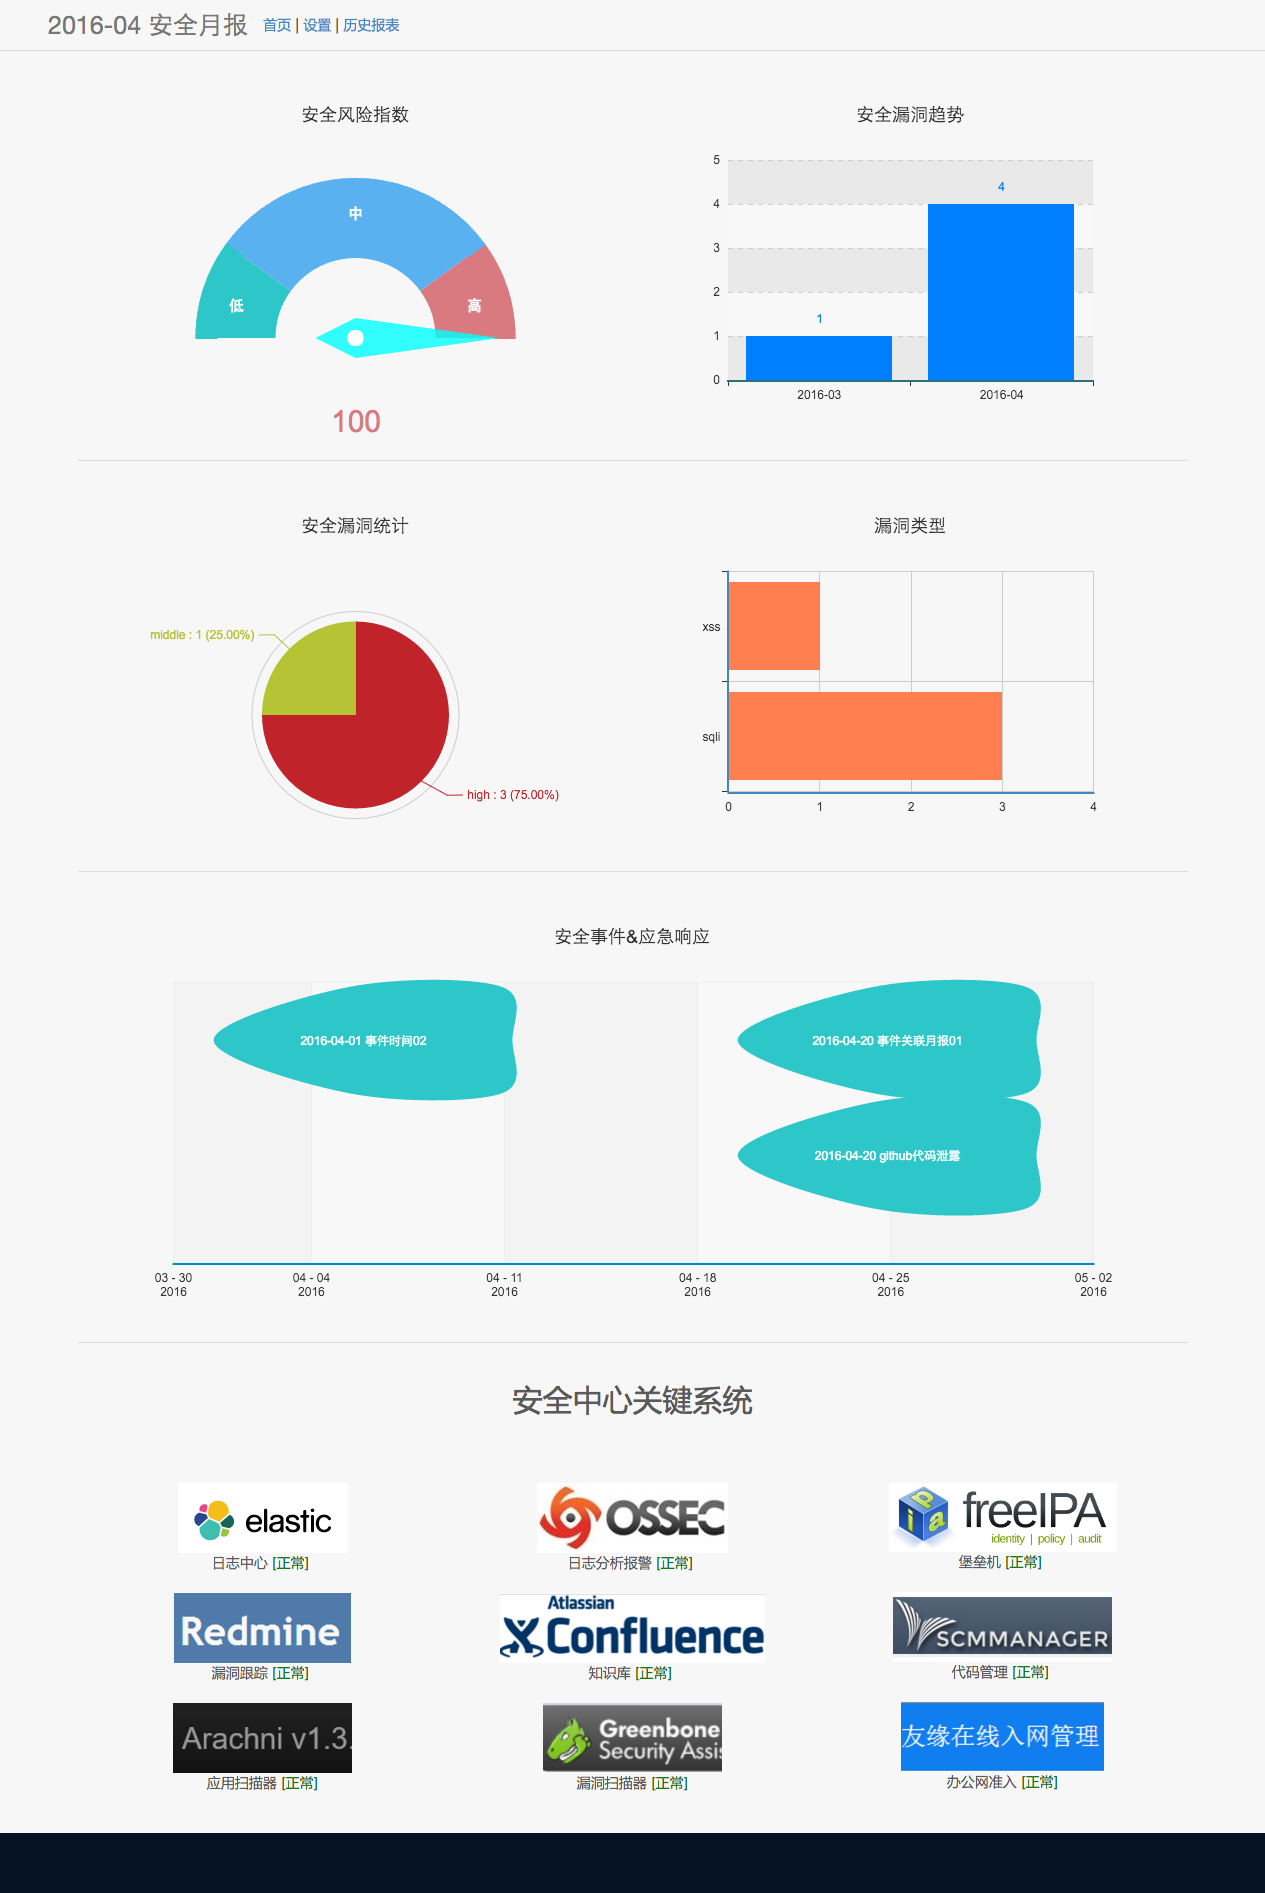
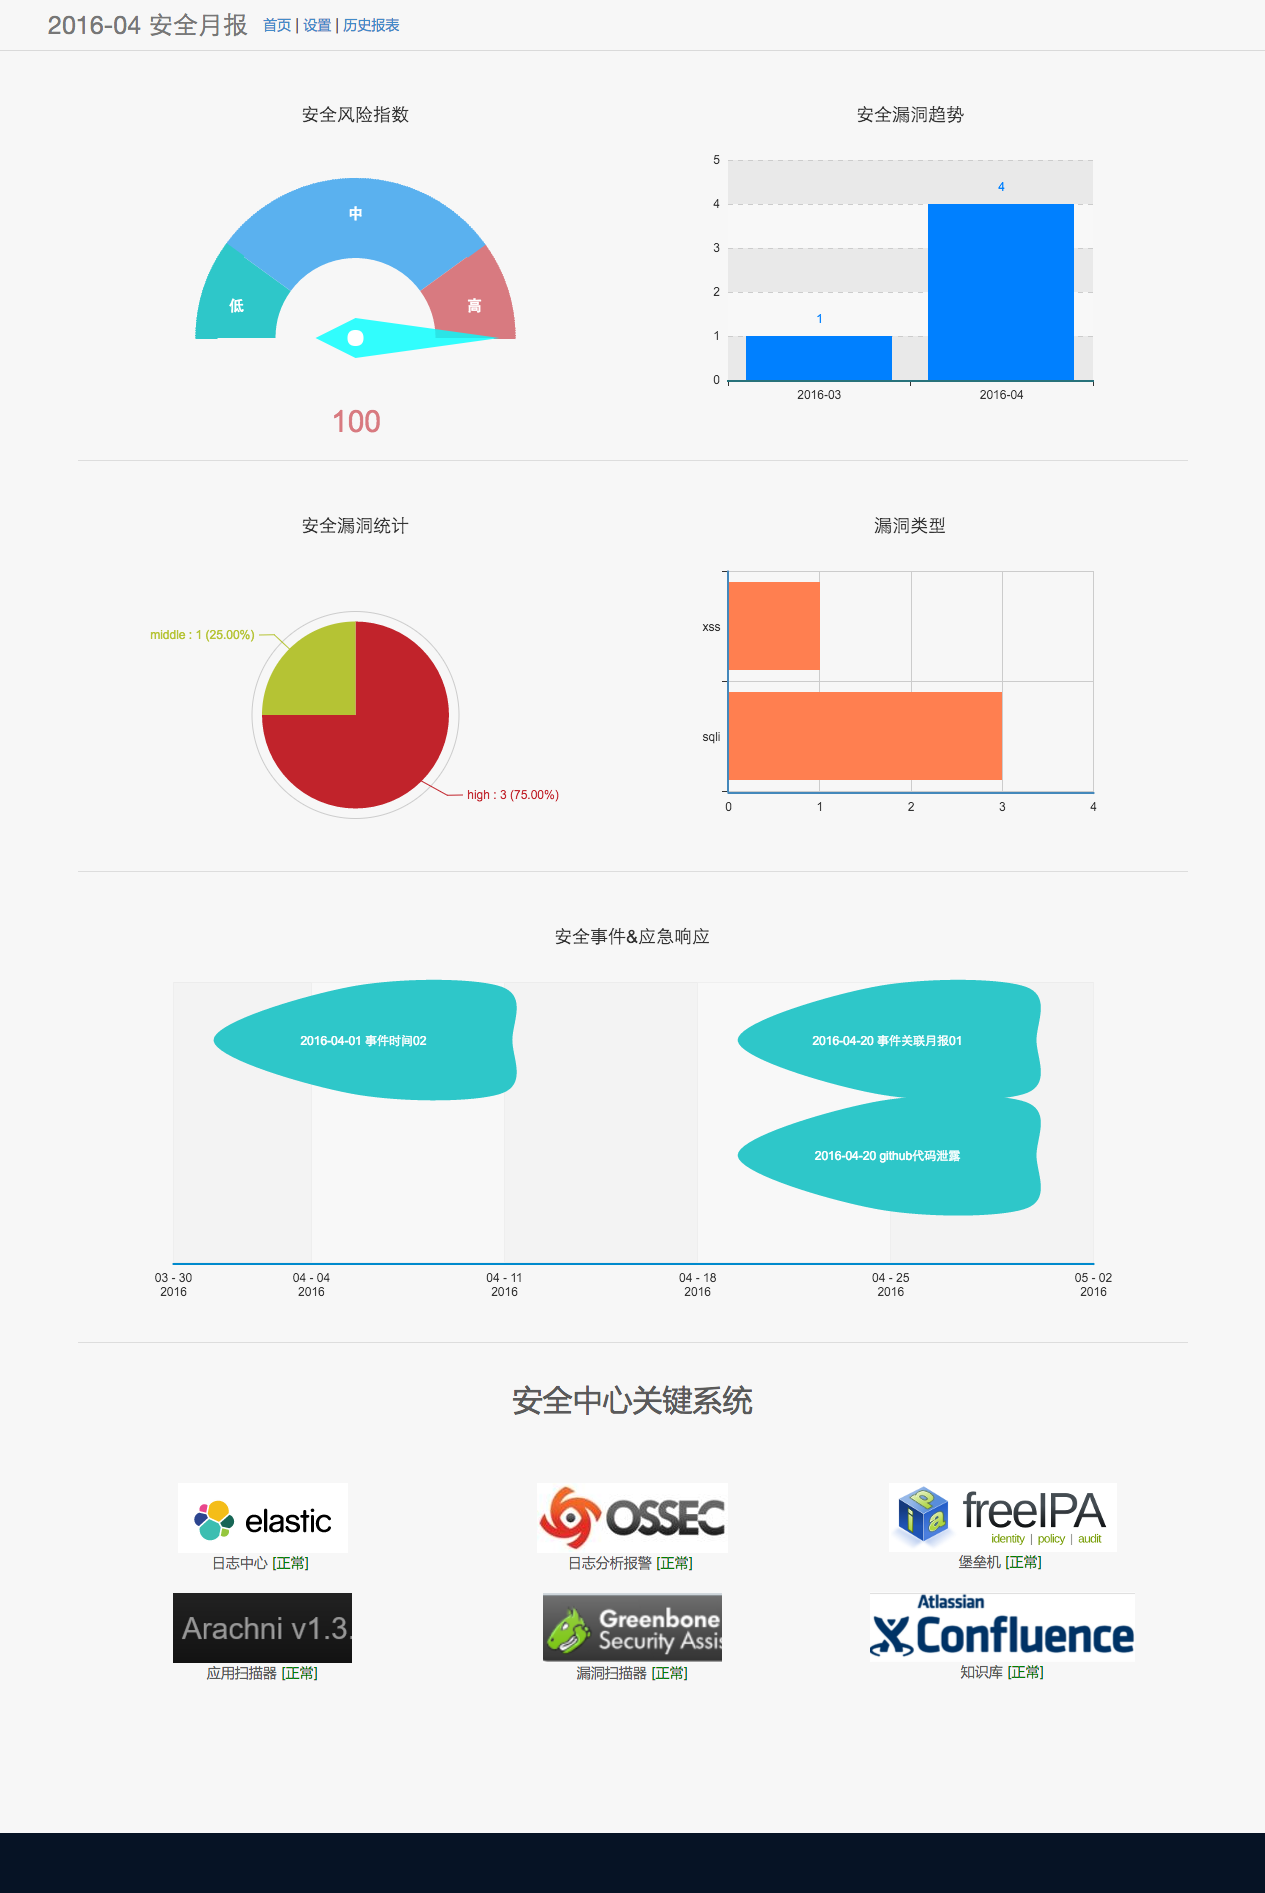
add img.png

Changed region(s): [[0.6783, 0.8415, 0.8941, 0.9662], [0.4008, 0.8415, 0.6166, 0.9662], [0.1233, 0.8415, 0.2775, 0.9662]]

diff --git a/app/templates/index.html b/app/templates/index.html
@@ -56,9 +56,6 @@
                         <img src="/static/img/elastic.png" height="70px" /><br />日志中心
                         <font color="green">[正常]</font>
                         <br /><br />
-                        <img src="/static/img/redmine.png" height="70px" /><br />漏洞跟踪
-                        <font color="green">[正常]</font>
-                        <br /><br />
                         <img src="/static/img/arachni.png" height="70px" /><br />应用扫描器
                         <font color="green">[正常]</font>
                         </div>
@@ -66,9 +63,6 @@
                     <div class="col-md-4">
                         <div md="main" class="chart" style="text-align:center;height:270px">
                         <img src="/static/img/ossec.png" /><br />日志分析报警
-                        <font color="green">[正常]</font>
-                        <br /><br />
-                        <img src="/static/img/wiki.png" height="70px" /><br/>知识库
                         <font color="green">[正常]</font>
                         <br /><br />
                         <img src="/static/img/openvas.png" height="70px" /><br/>漏洞扫描器
@@ -80,10 +74,7 @@
                         <img src="/static/img/freeipa.png" /><br />堡垒机
                         <font color="green">[正常]</font>
                         <br /><br />
-                        <img src="/static/img/scm.png" height="70px" /><br />代码管理
-                        <font color="green">[正常]</font>
-                        <br /><br />
-                        <img src="/static/img/access.png" height="70px" /><br />办公网准入
+                        <img src="/static/img/wiki.png" height="70px" /><br/>知识库
                         <font color="green">[正常]</font>
                         </div>
                     </div>
